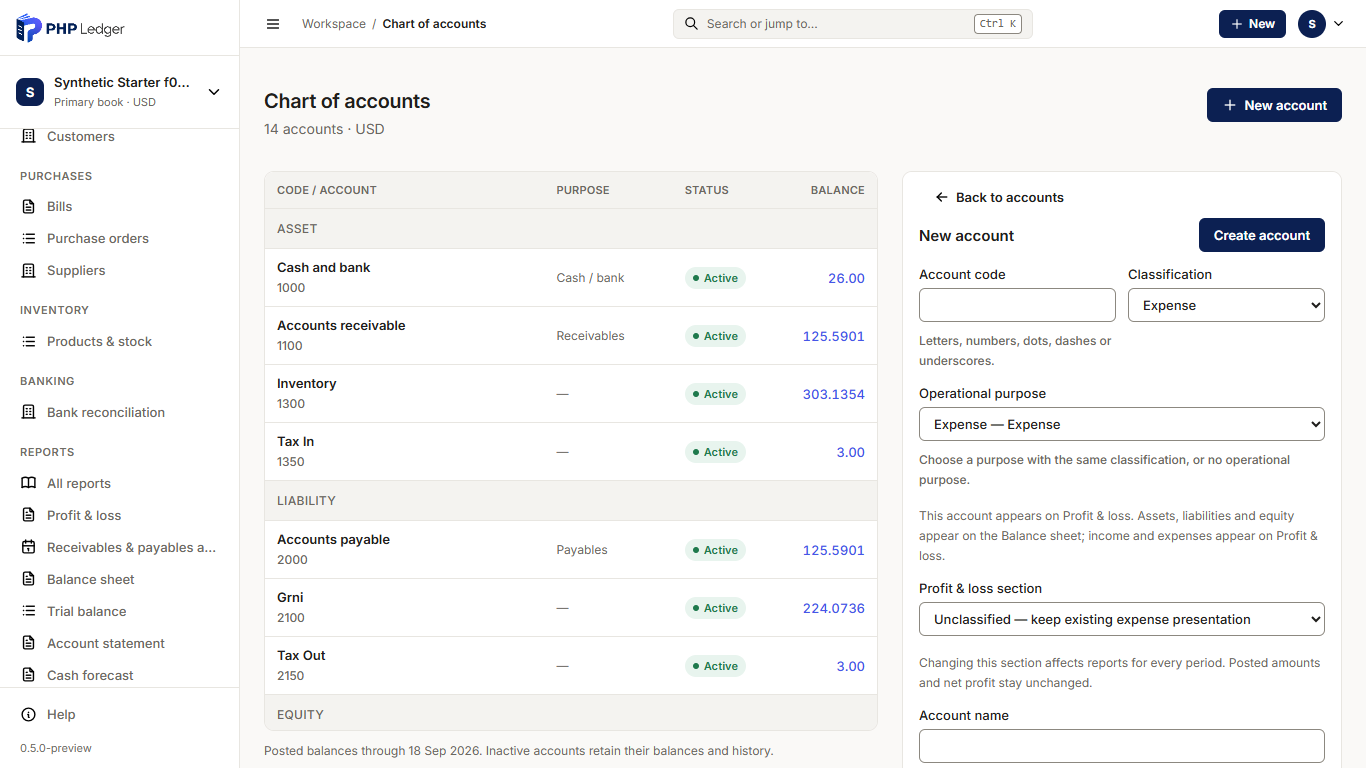
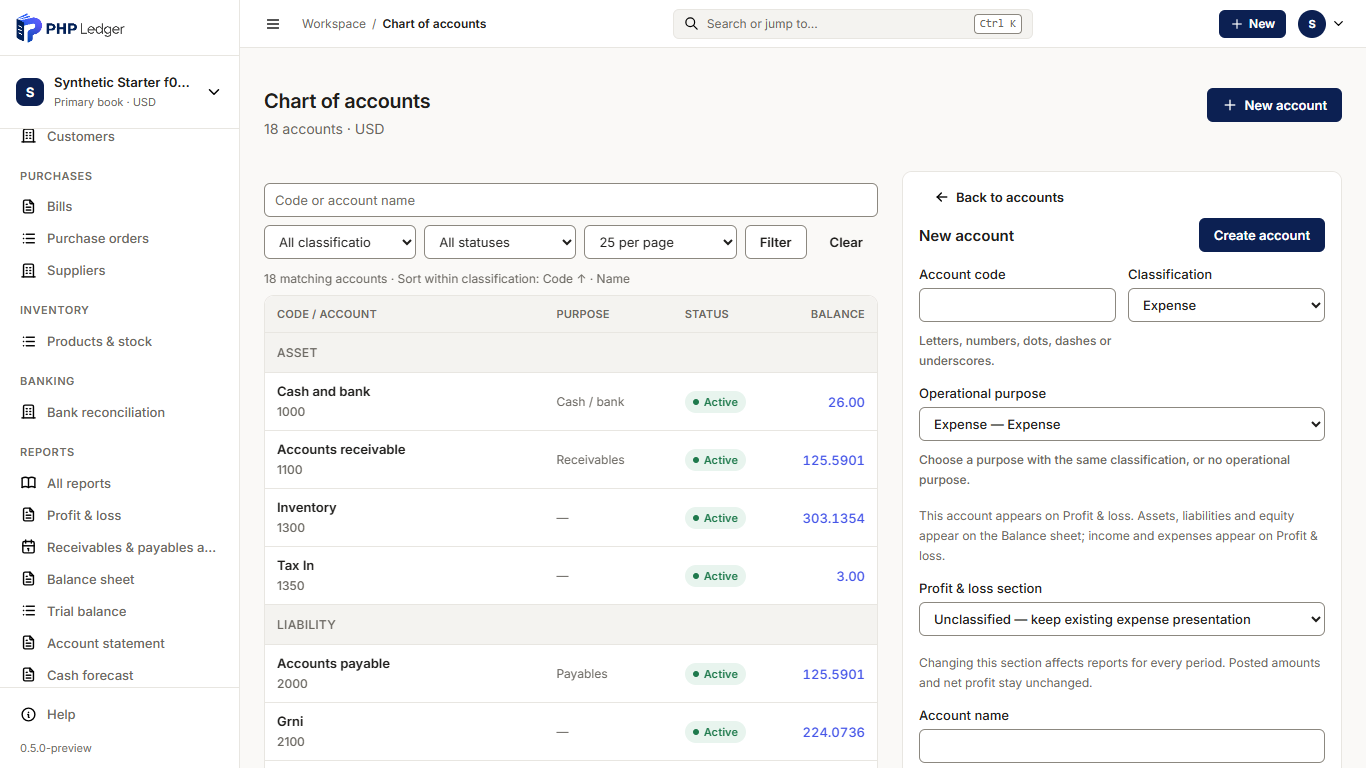
Verify local OAuth consent and refresh release browser evidence

diff --git a/docs/design/redesign-0.5/IMPLEMENTATION-NOTES.md b/docs/design/redesign-0.5/IMPLEMENTATION-NOTES.md
@@ -667,3 +667,11 @@ closed/partial/open disposition, including the remaining publication gates.
 - Latest sequential `composer check`: **282 tests, zero failures**, PHP lint **209 files, zero failures**, PHPStan no errors, seven sample packs valid and eight invalid validator fixtures rejected. Targeted `--suite=lists`: **38 tests, zero failures**. An earlier overlapping run caused interference in a global company-count test; the final full and targeted runs were sequential.
 - Final account browser checks passed with JavaScript enabled and disabled: search/classification/status, detail/back preservation, no-results recovery, create, rejected edit retention, rename, immutable classification and operational-account guidance. Captured 1366, 1024, 768 and 390 pixel widths with no page overflow; visually inspected the final 1024 pixel filtered register. This does not close full route/state, keyboard or zoom acceptance.
 - The current release gate now explicitly includes Wiki, About and affected metadata verification, matching the permanent every-release requirement in AGENTS.md and README. These are repository policy changes; public GitHub metadata has not yet been updated for 0.6.
+
+### Release gate follow-up - 18 September 2026
+
+- Refreshed the 33-state / 132-capture browser sweep against committed runtime `c3a57e5`. HTTP responses, console errors, page overflow and marked primary-action bounds passed. The evidence index now records the current compiled CSS digest and capture time. This remains 33 states, not full acceptance of all 38 HTML routes or 75 prototype states.
+- The existing isolated browser container had no OAuth public URL. Created a separate local-only test instance on port 18220 with ephemeral local OAuth keys; no hosted configuration changed and no key material was emitted.
+- Registered a synthetic local client and completed valid consent and cancellation with JavaScript enabled and disabled at 1366x768 and 1024x768. Verified callback state, authorization code presence for approval, access_denied for cancellation, primary-action visibility and page overflow. The callback was intercepted in the browser, so there was no external client request. No code or token value was logged. Visually reviewed the 1024-pixel consent capture. Evidence: completion-checkpoint/oauth-consent-results.json and matching captures.
+- Checked that the explicit package inventory includes all current application PHP/CSS/JavaScript files; none were missing. This is an inventory check, not exact-archive installation or upgrade validation.
+- Release remains unpublished. Outstanding implementation/acceptance includes form field recovery, complete nested report/source/action returns, full route/state and accessibility review. Final distributable fresh/upgrade/restore/runtime checks and consistent release assets/publication still follow. No publication authorization is missing.

diff --git a/docs/design/redesign-0.5/AUDIT-CLOSURE.md b/docs/design/redesign-0.5/AUDIT-CLOSURE.md
@@ -75,7 +75,7 @@ Source: [REPORTING-ADMIN-AUDIT.md](../ux-recovery/REPORTING-ADMIN-AUDIT.md).
 | P1 Reporting context | Partial | P&L presets and report/account/source return filters verified; nested source actions still require full return-chain acceptance. |
 | P1 Populated bank reconciliation | Closed locally | Synthetic CSV preview/import, match/unmatch, completion and 26-row cancellation verified with JS/no-JS; no duplicate payment posting. |
 | P1 Tax/module/period impact review | Closed locally | Immutable tax definitions/dated rates, consequence confirmations, reasoned period history and stale input checks retained. |
-| P1 Invalid OAuth recovery | Closed locally for malformed/expired requests | Request-specific recovery, unchanged 403 rejection and no untrusted redirect verified at four widths. Valid consent/cancel acceptance remains separate. |
+| P1 Invalid OAuth recovery | Closed locally for malformed/expired requests; consent/cancel browser checks passed | Request-specific recovery, unchanged 403 rejection and no untrusted redirect verified at four widths. Valid consent and cancel passed with JS on/off at both folds; callback state retained using an intercepted local callback. Token exchange and external client compatibility are separate checks. |
 | P2 Long report/settings pages | Partial | Compact report directory/settings and paged lists; final history density/scroll review pending. |
 | P2 Financial statement links | Closed locally for layout/returns | Explicit link styling and context-preserving account returns; final keyboard coverage pending. |
 | P2 Shared navigation | Closed locally for shell layout | Sidebar/rail/drawer replaces clipped navigation stacks; earlier drawer/command-palette checks recorded. |
